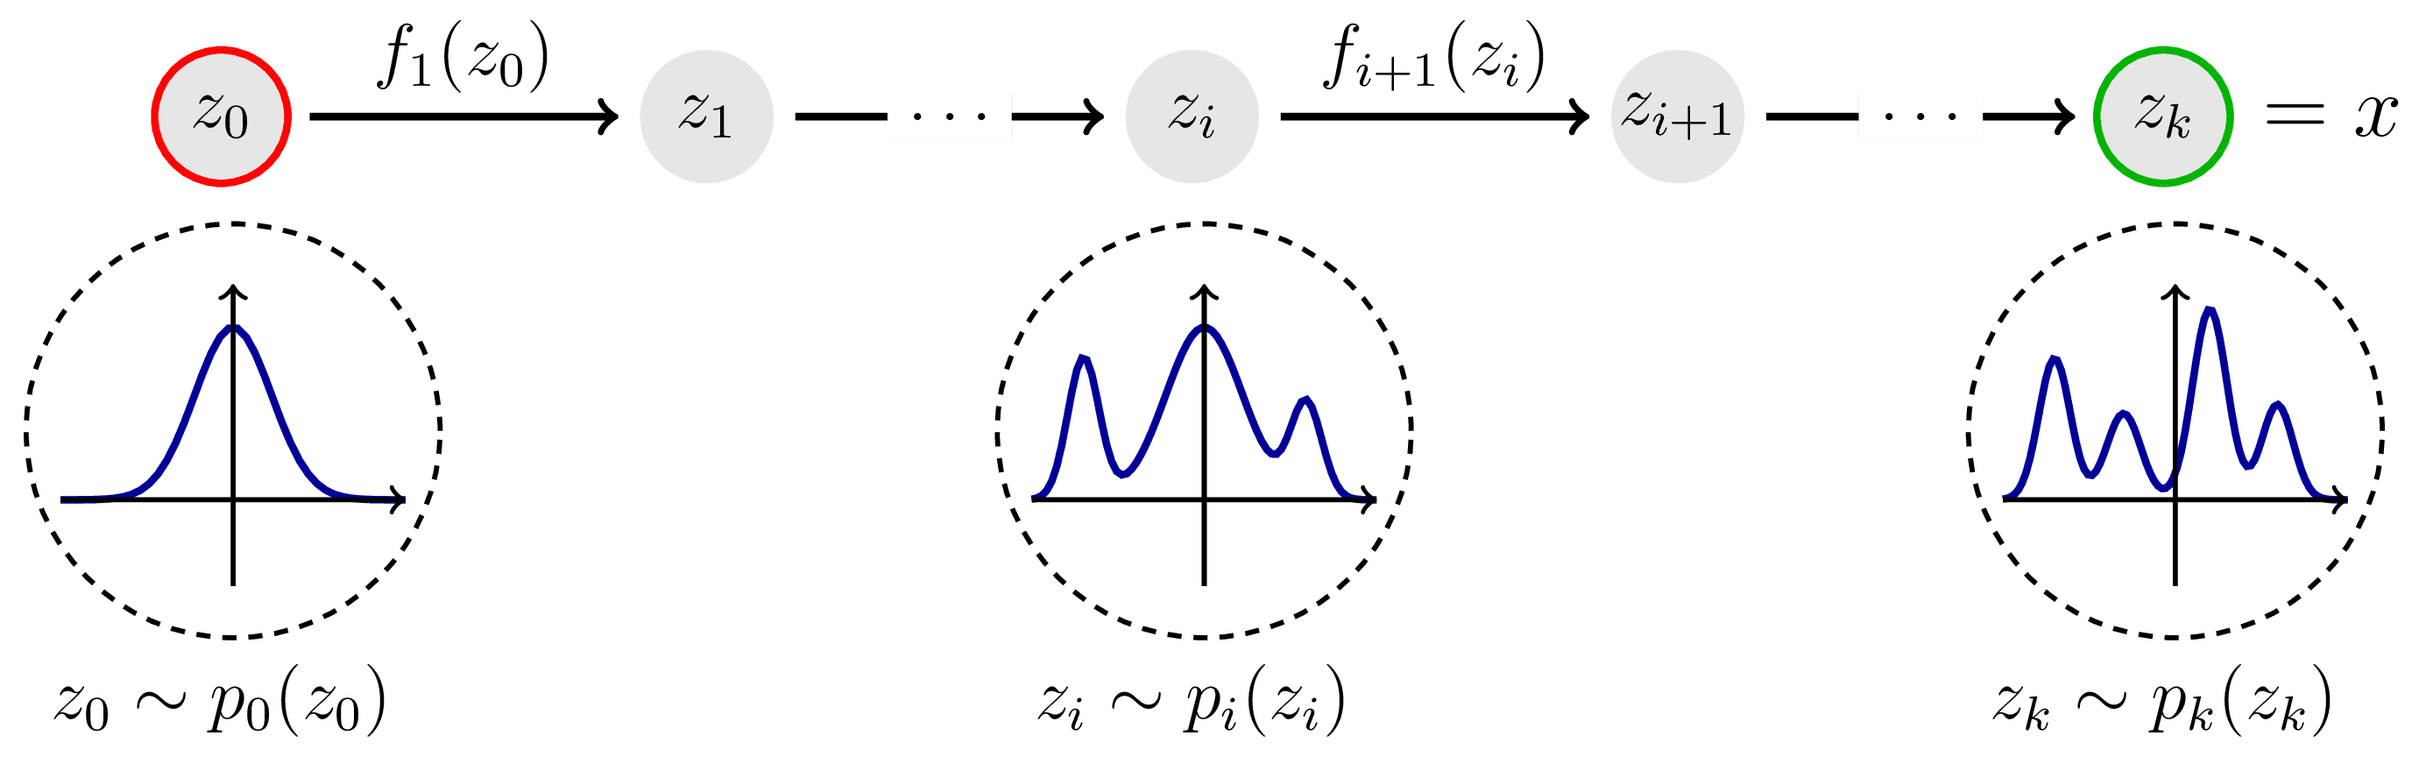
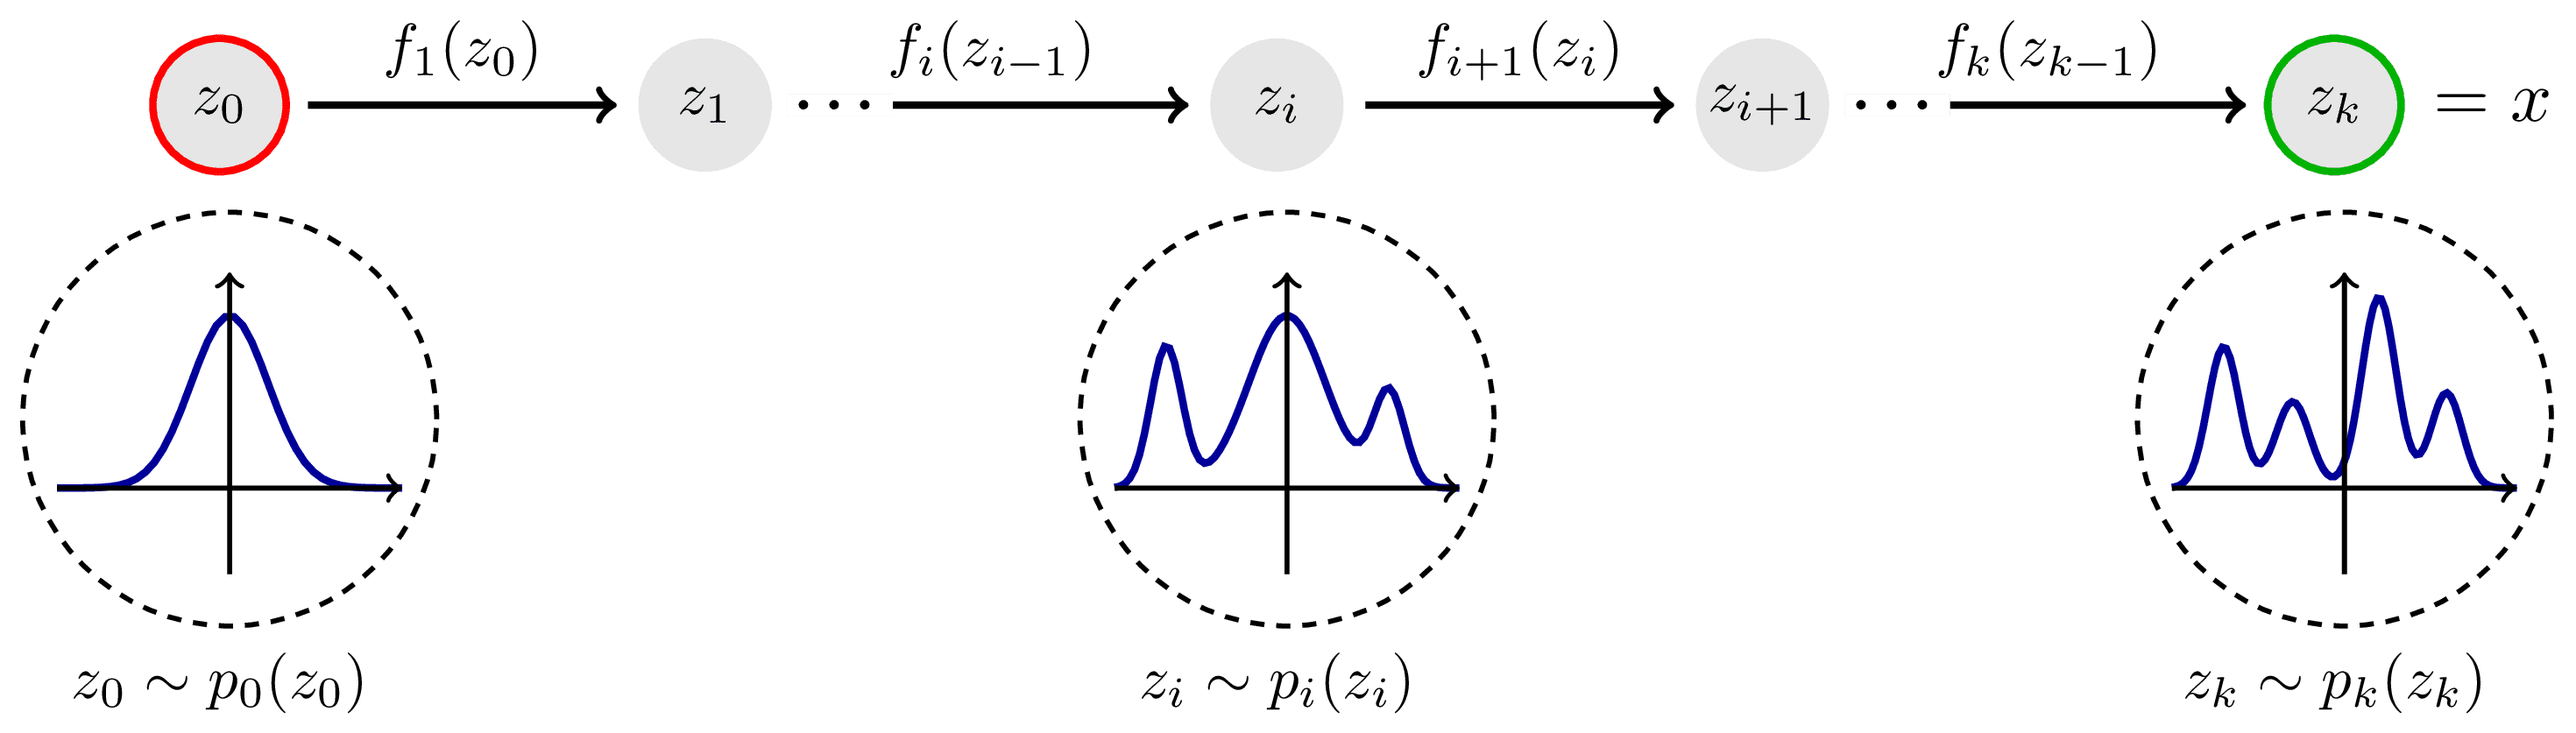
improve normalizing-flow.tex

diff --git a/assets/normalizing-flow/normalizing-flow.tex b/assets/normalizing-flow/normalizing-flow.tex
@@ -1,3 +1,6 @@
+% A chain of bijections $f = f_1 \circ \dots \circ f_k$ constituting a normalizing flow which step by step transforms a simple distribution $p_0(\vec z_0)$ into a complex one $p_k(\vec z_k)$. The bijections are trained to fit $p_k(\vec z_k)$ to some target distribution $p_x(\vec x)$.
+% Inspired by Lilian Weng: https://lilianweng.github.io/lil-log/2018/10/13/flow-based-deep-generative-models
+
 \documentclass[tikz]{standalone}
 
 \usetikzlibrary{positioning}
@@ -13,7 +16,7 @@
 
 \begin{document}
 \begin{tikzpicture}[
-    node distance=2, very thick, font=\large,
+    node distance=2, very thick,
     flow/.style={shorten >=3, shorten <=3, ->},
     znode/.style={circle, fill=black!10, minimum size=22, inner sep=0},
   ]
@@ -22,13 +25,13 @@
   \node[znode, right=of z0] (z1) {$z_1$};
   \draw[flow] (z0) -- node[above, midway] {$f_1(z_0)$} (z1);
 
-  \node[znode, right=of z1] (zi) {$z_i$};
+  \node[znode, right=2.5 of z1] (zi) {$z_i$};
   \node[znode, right=of zi] (zip1) {$z_{i+1}$};
   \draw[flow] (zi) -- node[above, midway] {$f_{i+1}(z_i)$} (zip1);
-  \draw[flow] (z1) --node[rectangle, fill=white, anchor=center, midway] {$\dots$} (zi);
+  \draw[flow] (z1) -- node[fill=white, pos=0.15, inner sep=1] {\textbf\dots} node[above, midway] {$f_i(z_{i-1})$} (zi);
 
-  \node[znode, draw=green!70!black, right=of zip1] (zk) {$z_k$};
-  \draw[flow] (zip1) -- node[rectangle, fill=white, anchor=center, midway] {$\dots$} (zk);
+  \node[znode, draw=green!70!black, right=2.5 of zip1] (zk) {$z_k$};
+  \draw[flow] (zip1) -- node[fill=white, pos=0.15, inner sep=1] {\textbf\dots} node[above, midway] {$f_k(z_{k-1})$} (zk);
   \node[right=0 of zk, scale=1.2] {$= x$};
   \node[outer sep=0, inner sep=0, below=0.2 of z0, label={below:$z_0 \sim p_0(z_0)$}] (f0) {\distro{1}{0}{0}};
   \node[outer sep=0, inner sep=0, below=0.2 of zi, label={below:$z_i \sim p_i(z_i)$}] (fi) {\distro[70]{1}{1}{0}};
